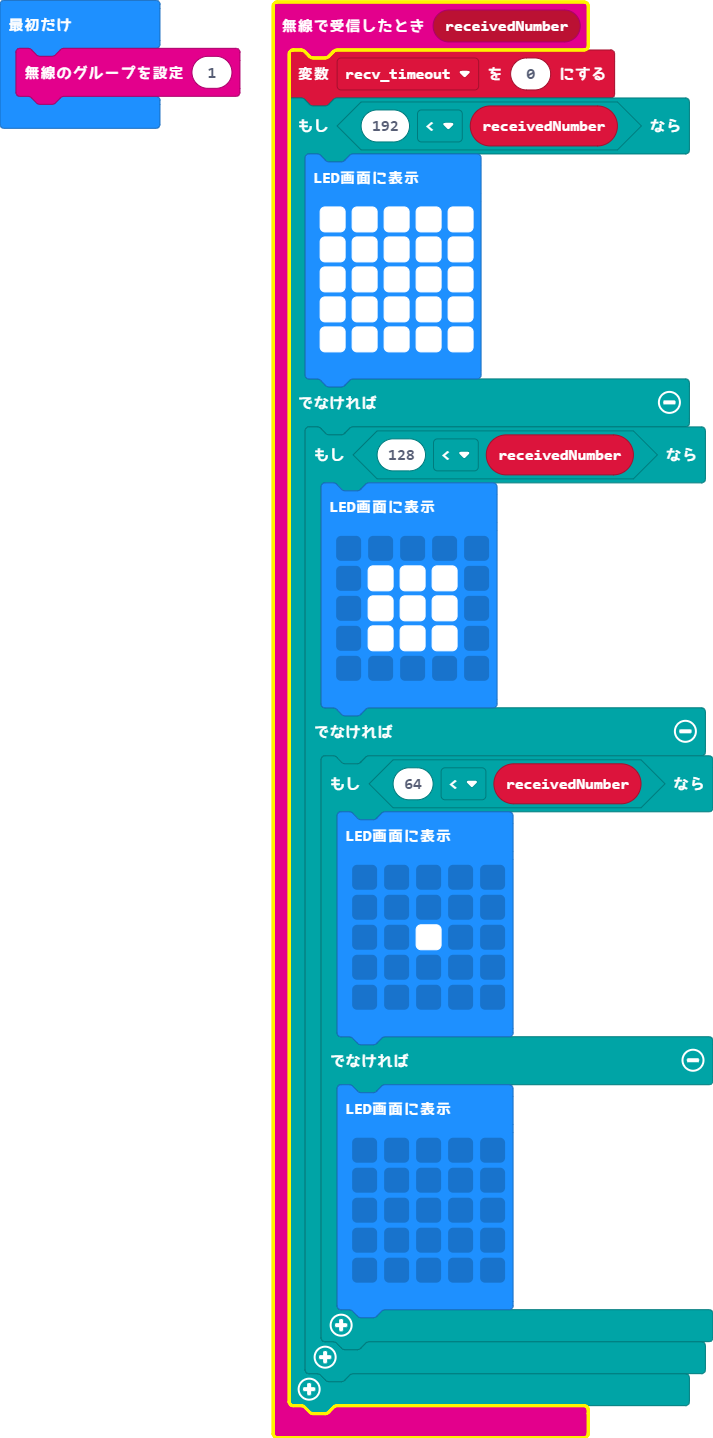
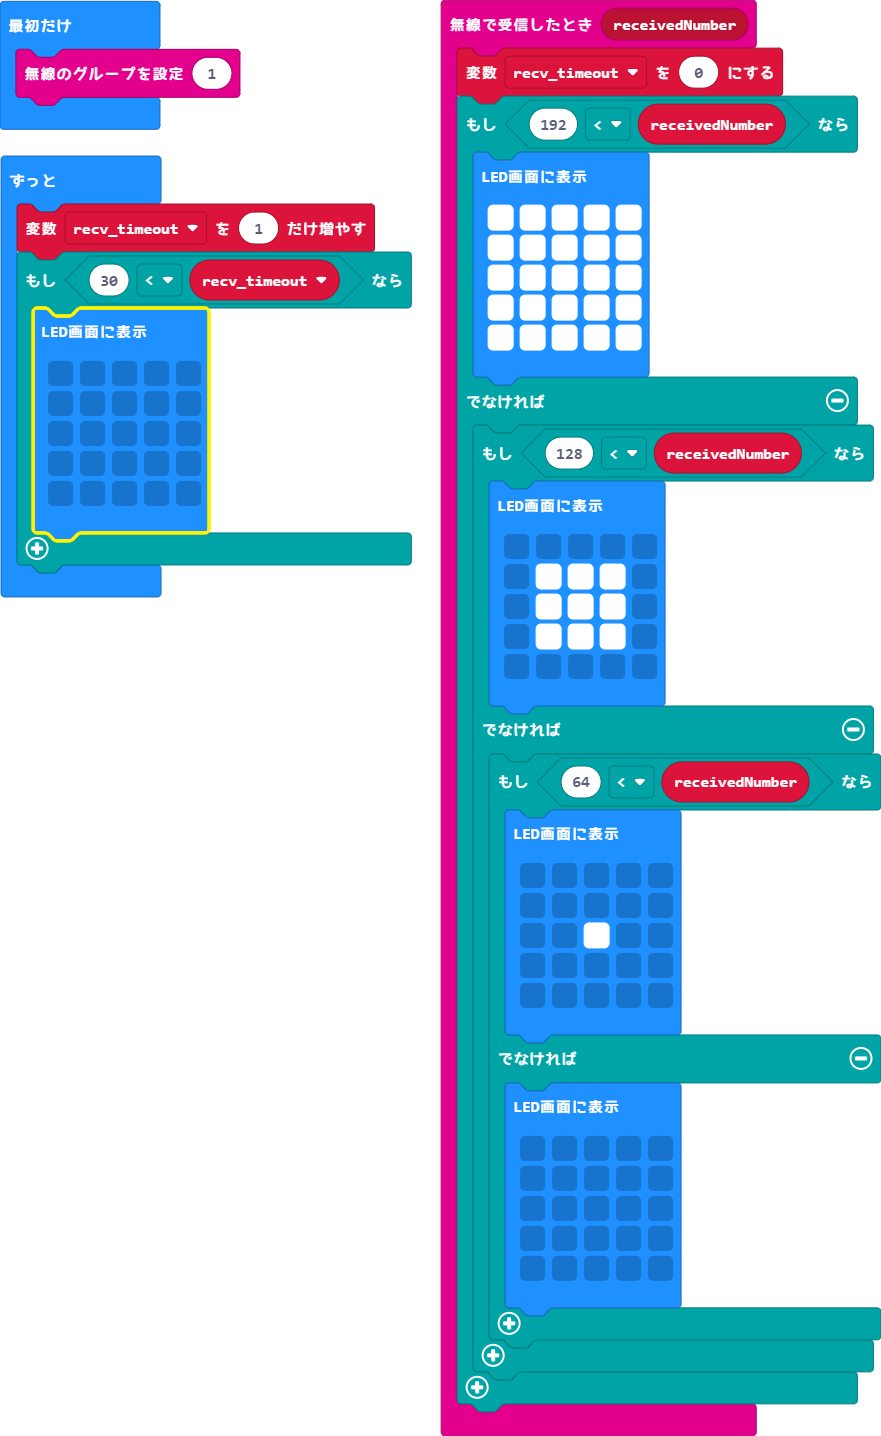
add timeout logic to off the led

diff --git a/main.ts b/main.ts
@@ -40,3 +40,15 @@ radio.onReceivedNumber(function (receivedNumber) {
 })
 let recv_timeout = 0
 radio.setGroup(1)
+basic.forever(function () {
+    recv_timeout += 1
+    if (30 < recv_timeout) {
+        basic.showLeds(`
+            . . . . .
+            . . . . .
+            . . . . .
+            . . . . .
+            . . . . .
+            `)
+    }
+})
